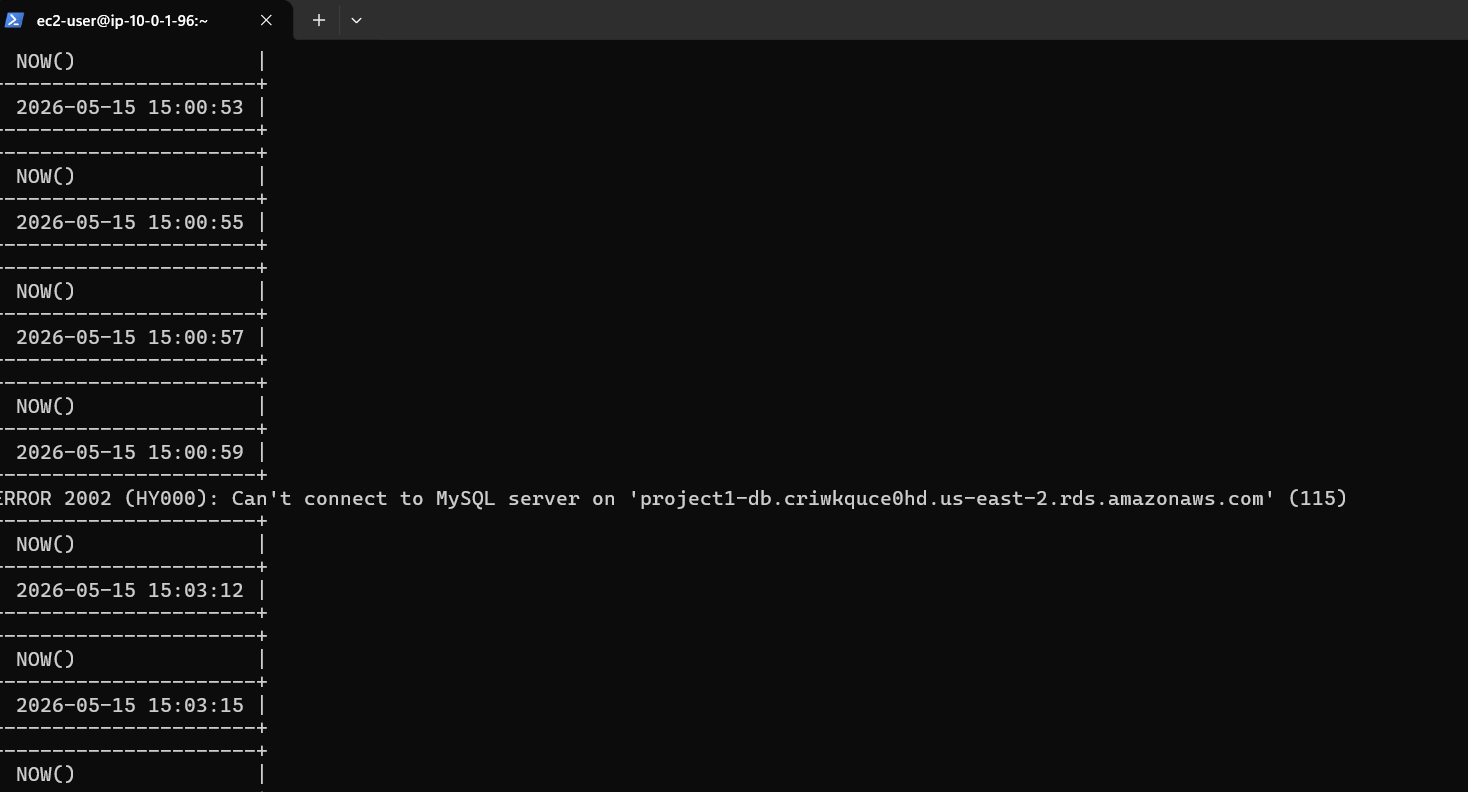
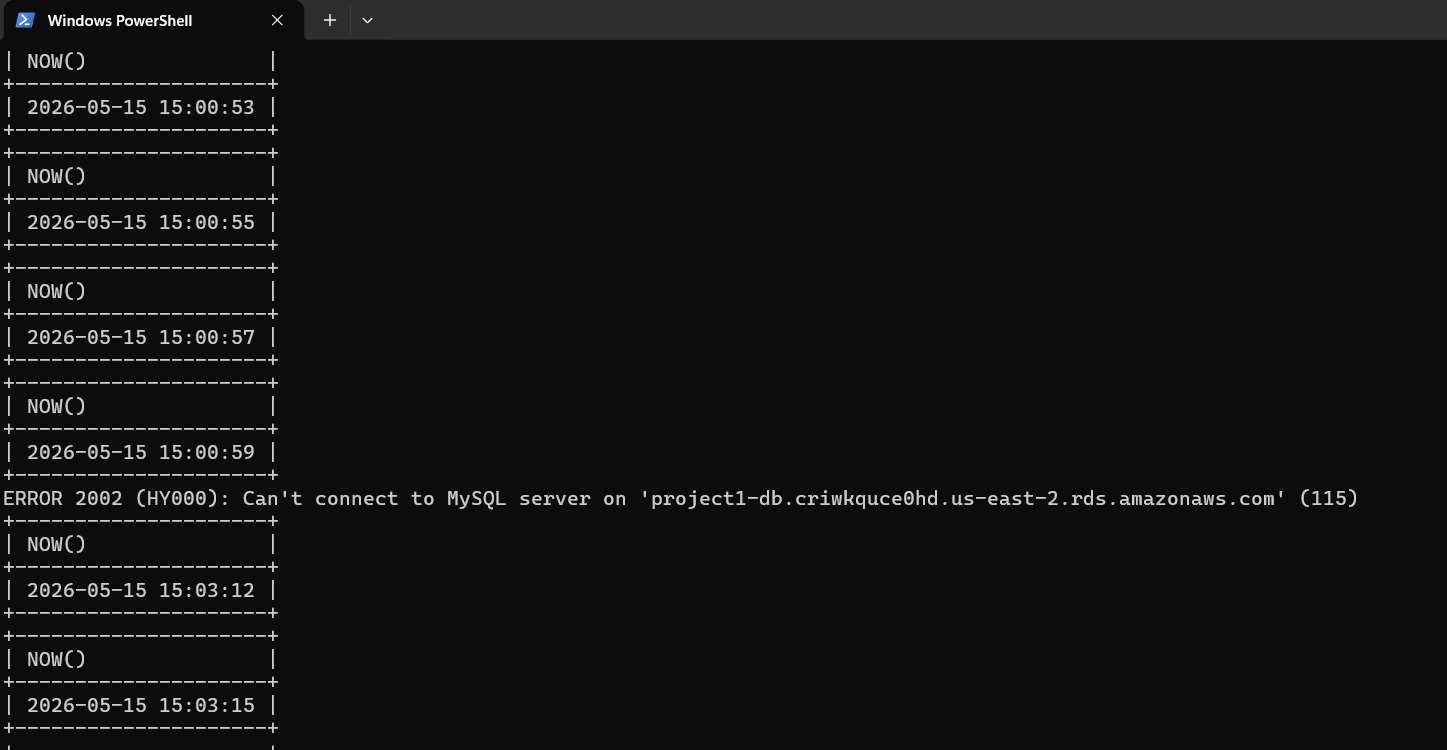
Polish: subnet names, EIP cost, CloudWatch wording, NAT placement, diagram alignment, simplified cost controls, improved failover evidence

Changed region(s): [[0.0, 0.0, 0.933, 1.0], [0.1866, 0.0, 0.2177, 0.0613]]

diff --git a/README.md b/README.md
@@ -159,10 +159,11 @@ Restored the rule and confirmed the MySQL connection re-established immediately.
 - The distinction between public and private subnets is purely a routing decision: a `0.0.0.0/0 → IGW` route makes a subnet public, not its name or the type of IP address assigned. All resources in a VPC receive a private RFC 1918 address regardless of subnet type
 - ALB access logs are delivered in 5-minute intervals, not in real time — the `ELBAccessLogTestFile` is written immediately on enable and confirms bucket policy permissions before the first log delivery
 - ALB deregistration delay defaults to 300 seconds — targets appear to drain slowly because the ALB waits for in-flight requests to complete before removing them from rotation
-- RDS Multi-AZ maintains a synchronous standby in a second AZ. On forced failover (reboot with failover), the primary went offline, the standby was promoted, and the connection restored automatically within 90 seconds — with no endpoint change required on the application side
+- RDS Multi-AZ maintains a synchronous standby in a second AZ. On forced failover (reboot with failover), I observed the connection drop for approximately 2 minutes 13 seconds before recovering automatically through the same DB endpoint. The RDS event log explicitly recorded `Multi-AZ instance failover started → DB instance restarted → Multi-AZ instance failover completed`, and the instance's AZ moved from us-east-2a to us-east-2b — confirming the standby was promoted and AWS repointed the endpoint DNS automatically with no application-side configuration change
 - IAM roles attached to EC2 instances are the correct credential pattern for AWS CLI access from within an instance — no access keys stored on disk, credentials rotate automatically via instance metadata
 
-![RDS Multi-AZ failover event in the console](screenshots/phase4-FailOver.png)
+![MySQL CLI loop showing the connection drop and recovery across a Multi-AZ failover — outage from 15:00:59 to 15:03:12, approximately 2 minutes 13 seconds](screenshots/phase4-FailOver.png)
+![RDS event log showing the failover sequence and the instance now in us-east-2b](screenshots/phase4-FailOverEvents.png)
 
 ---
 
@@ -190,4 +191,4 @@ Phases 1–3 stayed within AWS Free Tier limits. Phase 4 introduces resources th
 - **Application Load Balancer** runs ~$16/month if left active continuously, plus per-LCU charges
 - **Second EC2 instance** in `project1-public-1b` doubles compute hours
 
-Cost-mitigation patterns used in the project: EC2 instances are stopped between sessions; the NAT Gateway (~$1/day) is deleted between sessions and recreated at the start of each working session to avoid idle charges; the ALB and RDS instance are kept running between sessions while Phase 4 is active. Phase 5 onward will reintroduce teardown discipline for the ALB and RDS.
+Cost-mitigation patterns: EC2 instances are stopped between sessions. The NAT Gateway is torn down because no current workload exercises it, and will be recreated when a future phase needs private-subnet egress. The ALB is kept running through the remaining phases. The RDS Multi-AZ instance will be stopped at the end of Phase 4 since no later phase requires a database.
